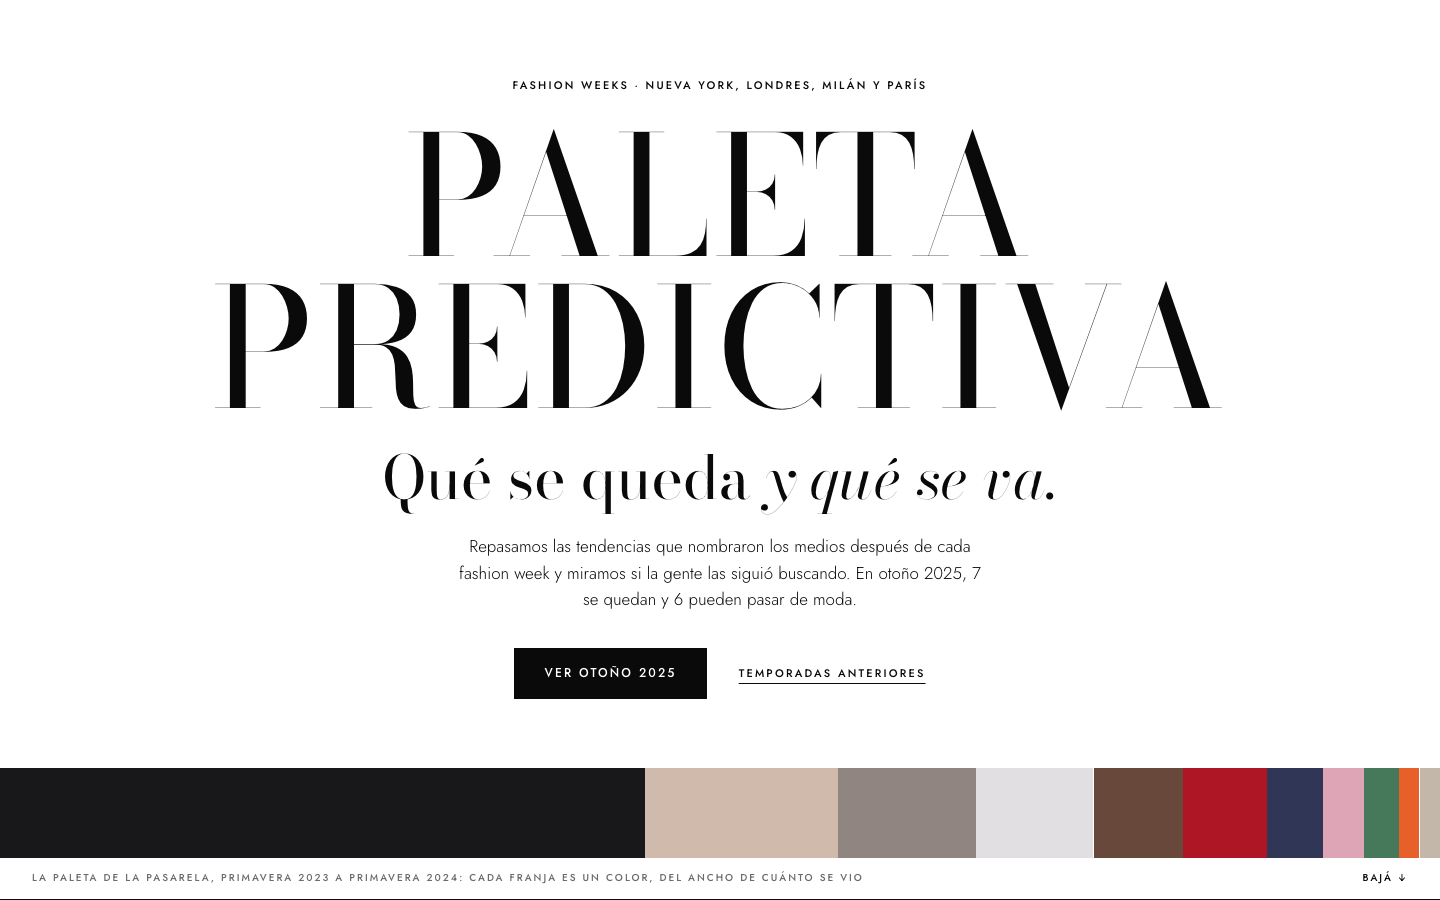
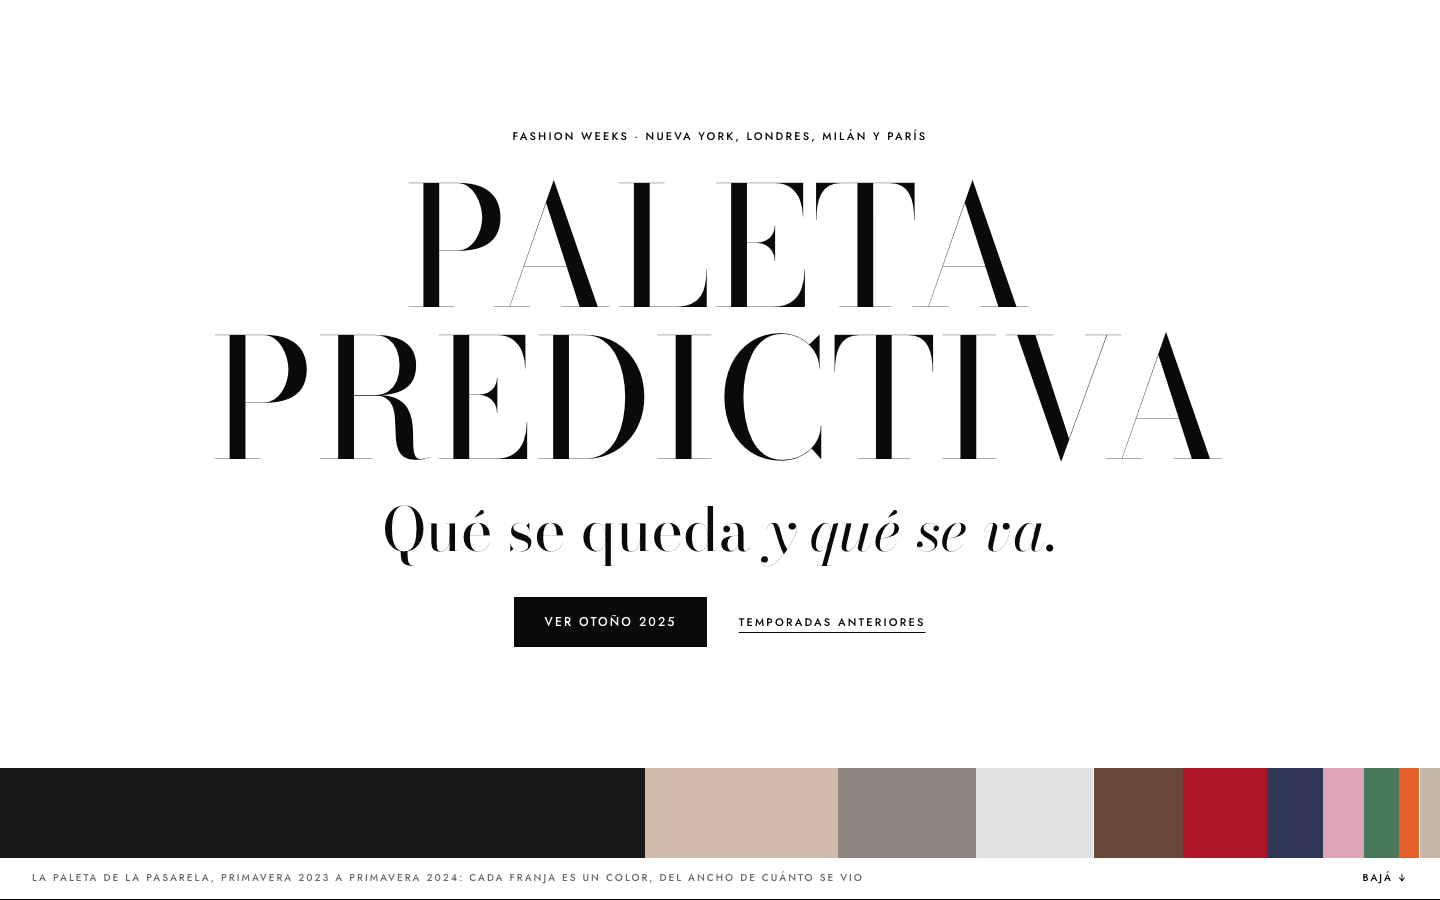
Home sin texto, nombre que se pinta con los colores de la pasarela y aparicion al bajar
- Se saca la linea explicativa del home.
- Al pasar el cursor, cada letra de "Paleta Predictiva" toma un color de la pasarela (en celular, en ola al tocar).
- Cada bloque aparece al entrar en pantalla; sin efecto si el sistema pide menos movimiento.
- Guion, DISENO.md y capturas del home al dia.

diff --git a/prototipo/index.html b/prototipo/index.html
@@ -20,6 +20,8 @@ button{font:inherit;color:inherit;background:none;border:0;cursor:pointer;paddin
 img{display:block}
 :focus-visible{outline:1.5px solid var(--negro);outline-offset:3px}
 @media (prefers-reduced-motion:reduce){*{transition:none!important;animation:none!important}}
+.js-rv .rv{opacity:0;transform:translateY(28px);transition:opacity .7s cubic-bezier(.2,.7,.2,1) var(--rd,0s),transform .9s cubic-bezier(.2,.7,.2,1) var(--rd,0s)}
+.js-rv .rv.visto{opacity:1;transform:none}
 .wrap{max-width:1320px;margin:0 auto;padding:0 32px}
 @media (max-width:700px){.wrap{padding:0 16px}}
 
@@ -51,7 +53,8 @@ img{display:block}
 .home-marca{font-family:var(--didone);font-weight:400;font-variation-settings:"opsz" 96;font-size:clamp(52px,11.5vw,176px);line-height:.92;letter-spacing:.02em;text-transform:uppercase;margin:26px 0 22px}
 .home-frase{font-family:var(--didone);font-size:clamp(30px,4.2vw,60px);line-height:1.05;font-variation-settings:"opsz" 72}
 .home-frase i{font-weight:400}
-.home-bajada{max-width:54ch;margin:24px auto 0;font-weight:300;font-size:17px}
+.home-marca .l{transition:color .45s ease}
+.home-marca .l.pinta{color:var(--c)}
 .home-acciones{display:flex;gap:16px 32px;align-items:center;justify-content:center;flex-wrap:wrap;margin-top:36px}
 .boton-home{background:var(--negro);color:#fff;padding:16px 30px;font-size:12px;font-weight:500;letter-spacing:.18em;text-transform:uppercase;text-decoration:none}
 .boton-home:hover{background:#333}
@@ -298,7 +301,6 @@ footer .masthead{font-size:28px;padding:0;text-align:left}
     <p class="caps">Fashion weeks · Nueva York, Londres, Milán y París</p>
     <h1 class="home-marca">Paleta Predictiva</h1>
     <p class="home-frase">Qué se queda <i>y qué se va.</i></p>
-    <p class="home-bajada" id="bajada"></p>
     <div class="home-acciones"><a class="boton-home" href="#indice">Ver otoño 2025</a><a class="caps link-ant" href="#indice" data-ir-temp="SS2025">Temporadas anteriores</a></div>
   </div>
   <div class="home-paleta" id="home-paleta" role="img" aria-label="Los colores de la pasarela, cada uno del ancho de cuánto se vio"></div>
@@ -483,10 +485,29 @@ footer .masthead{font-size:28px;padding:0;text-align:left}
   var ETIQ = {queda:'Se queda', riesgo:'En riesgo', sin:'Sin señal'};
   function num(n, d){ return n.toLocaleString('es-AR', {minimumFractionDigits:d, maximumFractionDigits:d}); }
 
-  // Home: la frase con los números de la temporada más nueva y la paleta de la pasarela
-  function cuenta(s, v){ return Q.concat(R).filter(function(t){ return t.temporada === s && t.veredicto === v; }).length; }
-  $('bajada').textContent = 'Repasamos las tendencias que nombraron los medios después de cada fashion week y miramos si la gente las siguió buscando. ' +
-    'En otoño 2025, ' + cuenta('FW2025', 'queda') + ' se quedan y ' + cuenta('FW2025', 'riesgo') + ' pueden pasar de moda.';
+  // Home: cada letra del nombre se pinta con un color de la pasarela al pasar el cursor
+  (function(){
+    var h = document.querySelector('.home-marca'), texto = h.textContent, k = 0;
+    function luz(hex){ var n = parseInt(hex.slice(1), 16); return 0.299 * (n >> 16) + 0.587 * (n >> 8 & 255) + 0.114 * (n & 255); }
+    var tonos = D.colores.filter(function(c){ return luz(c.hex) < 200; }).sort(function(a, b){ return b.reciente - a.reciente; }).map(function(c){ return c.hex; });
+    var orden = [6, 1, 3, 8, 0, 5, 2, 7, 4].filter(function(i){ return i < tonos.length; });   // salteado, para que dos vecinas no repitan familia
+    h.setAttribute('aria-label', texto);
+    h.innerHTML = texto.split('').map(function(ch){
+      if (ch === ' ') return '<br>';
+      return '<span class="l" aria-hidden="true" style="--c:' + tonos[orden[k++ % orden.length]] + '">' + ch + '</span>';
+    }).join('');
+    h.querySelectorAll('.l').forEach(function(l){
+      l.addEventListener('mouseenter', function(){ clearTimeout(l._t); l.classList.add('pinta'); });
+      l.addEventListener('mouseleave', function(){ l._t = setTimeout(function(){ l.classList.remove('pinta'); }, 900); });
+    });
+    // En el celular no hay cursor: al tocar el nombre, las letras se pintan en ola
+    h.addEventListener('touchstart', function(){
+      h.querySelectorAll('.l').forEach(function(l, i){
+        setTimeout(function(){ l.classList.add('pinta'); }, i * 55);
+        setTimeout(function(){ l.classList.remove('pinta'); }, 1600 + i * 55);
+      });
+    }, {passive:true});
+  })();
   $('home-paleta-pie').innerHTML = 'La paleta de la pasarela, ' + D.colores_meta.recientes.map(function(c){ return (c.slice(0, 2) === 'SS' ? 'primavera ' : 'otoño ') + c.slice(2); }).join(' a ').replace(/ a [^a]* a /, ' a ') +
     '<span class="solo-compu">: cada franja es un color, del ancho de cuánto se vio</span>';
   $('home-paleta').innerHTML = D.colores.slice().sort(function(a, b){ return b.reciente - a.reciente; }).map(function(c, i){
@@ -702,7 +723,25 @@ footer .masthead{font-size:28px;padding:0;text-align:left}
     }).catch(function(){ caja.innerHTML = '<p class="ia-error" style="margin-top:10px">No pudimos traer el prompt.</p>'; });
   });
 
-
+  // Al bajar, cada bloque aparece cuando entra en pantalla (sin efecto si el sistema pide menos movimiento)
+  var RV = '.seccion-cabeza, .temporadas-nav, .t-cuenta, .ficha-t, .sin-lista, .cita blockquote, .evid > div, .color, .volvieron, .pasos li, .ciclos, .tres > div';
+  var mira = window.IntersectionObserver && !matchMedia('(prefers-reduced-motion: reduce)').matches
+    ? new IntersectionObserver(function(es){ es.forEach(function(e){ if (e.isIntersecting){ e.target.classList.add('visto'); mira.unobserve(e.target); } }); }, {rootMargin: '0px 0px -8% 0px'})
+    : null;
+  function revelar(){
+    if (!mira) return;
+    document.documentElement.classList.add('js-rv');
+    document.querySelectorAll(RV).forEach(function(el){
+      if (el.classList.contains('rv')) return;
+      el.classList.add('rv');
+      var hermanos = el.parentNode ? Array.prototype.indexOf.call(el.parentNode.children, el) : 0;
+      el.style.setProperty('--rd', (hermanos % 4) * 0.08 + 's');
+      mira.observe(el);
+    });
+  }
+  var pintarBase = pintar;
+  pintar = function(){ pintarBase(); revelar(); };
+  revelar();
 })();
 </script>
 </body>

diff --git a/entrega3/DISENO.md b/entrega3/DISENO.md
@@ -38,6 +38,7 @@ El agente propuso **dos alternativas** y elegimos una:
 - **Otoño 2025 (2/11/2026).** Pasó su chequeo (ver `analisis/brief_fw2025/LEEME.md`) y pasa a ser la temporada que abre la página; primavera 2025, otoño 2024 y primavera 2024 quedan como anteriores. Las 8 tendencias cuya lectura cambia con solo marzo a julio de 2025 llevan el aviso en su nota.
 - **Menos texto y gráficos más simples (2/11/2026).** Borja: la página explicaba demasiado y los gráficos no se entendían. La nota ahora tiene una línea ("se buscó 132% más; las demás tendencias de la temporada subieron 34%") y dos barras con esa misma comparación, en lugar de la curva con cuatro líneas. El aviso largo pasa a una etiqueta "Con cuidado" que se abre con una frase. Las tres cifras de evidencia (con el "≤ 20%" que no se entendía) pasan a dos datos con puntitos. Los colores dicen "1 de cada 3 looks" y "más que antes", sin códigos ni explicación técnica.
 - **¿Volvieron en 2026?** En la sección de 2026 se cruza cada tendencia de 2025 con las listas de 2026 (mismo término de búsqueda): volvieron 3 de 15 de las que se quedan, 0 de 11 de las que están en riesgo y 6 de 20 de las sin señal. Se muestra como pista, no como prueba: volver a la pasarela no es lo que mide la hipótesis, y las sin señal volvieron más.
+- **Home sin texto, nombre que se pinta y aparición al bajar (2/11/2026).** Se sacó la línea explicativa del home. Al pasar el cursor por "Paleta Predictiva", cada letra toma un color de la pasarela (en celular, al tocar el nombre, se pintan en ola). Al bajar, cada bloque aparece cuando entra en pantalla; si el sistema pide menos movimiento, no hay efecto.
 - **Dos desfiles por tendencia.** Para respaldar que una tendencia se vio en más de una pasarela, cada una lleva dos fotos de dos marcas distintas de esa temporada (`<id>-1.jpg` y `<id>-2.jpg`). La tarjeta del índice muestra la primera; la nota muestra las dos, cada una con su crédito ("Chloé · Primavera 2025"). Las marcas salen de la nota del medio que nombró la tendencia; cuando esa nota no se pudo abrir (CBC Life) o no nombra marcas (The Impression y parte de Marie Claire y Who What Wear), salen de otras notas de la misma temporada, y `prototipo/FOTOS.md` lo marca como "otra". Para el vestido rosa de otoño 2026 ninguna nota nombra marcas.
 - **Calculado contra IA.** Dos etiquetas: "Calculado" (recuadro negro) e "Inferencia de la IA" (azul). Todo lo que escribe la IA vive en un bloque azul aparte, nunca mezclado con los veredictos.
 - **Rojo solo para el riesgo.** Lo que se queda va en negro; lo que puede pasar, en rojo. Sin verde: no queremos que "se queda" se lea como "comprá".

diff --git a/entrega3/GUION.md b/entrega3/GUION.md
@@ -30,7 +30,7 @@ Paleta predictiva le dice qué tendencias de pasarela tienden a quedarse y cuál
 
 ## 3:00 a 7:00: demo en vivo
 
-1. **Home.** "Paleta Predictiva. Qué se queda y qué se va." Leer la línea: en otoño 2025, 7 se quedan y 6 pueden pasar de moda. Abajo, la franja con los colores de la pasarela, cada uno del ancho de cuánto se vio. Tocar **Ver otoño 2025**.
+1. **Home.** "Paleta Predictiva. Qué se queda y qué se va." Pasar el cursor por el nombre: cada letra se pinta con un color de la pasarela. Abajo, la franja con esos colores, cada uno del ancho de cuánto se vio. Tocar **Ver otoño 2025** y bajar: cada bloque aparece a medida que entra en pantalla.
 2. **El índice.** Abre en la temporada más nueva, otoño 2025. Cada tendencia tiene la foto del desfile, el veredicto y el número dentro de la frase, como en las notas de análisis de WGSN. Las que no se movieron lo suficiente van abajo, en "Sin señal clara". Arriba se eligen las temporadas anteriores: primavera 2025, otoño 2024 y primavera 2024.
 3. **Rubro.** Elegir "Vestidos": la página deja solo lo de ese rubro.
 4. **Etiquetas.** Mostrar la leyenda: **Calculado** (recuadro negro) contra **Inferencia de la IA** (azul).
